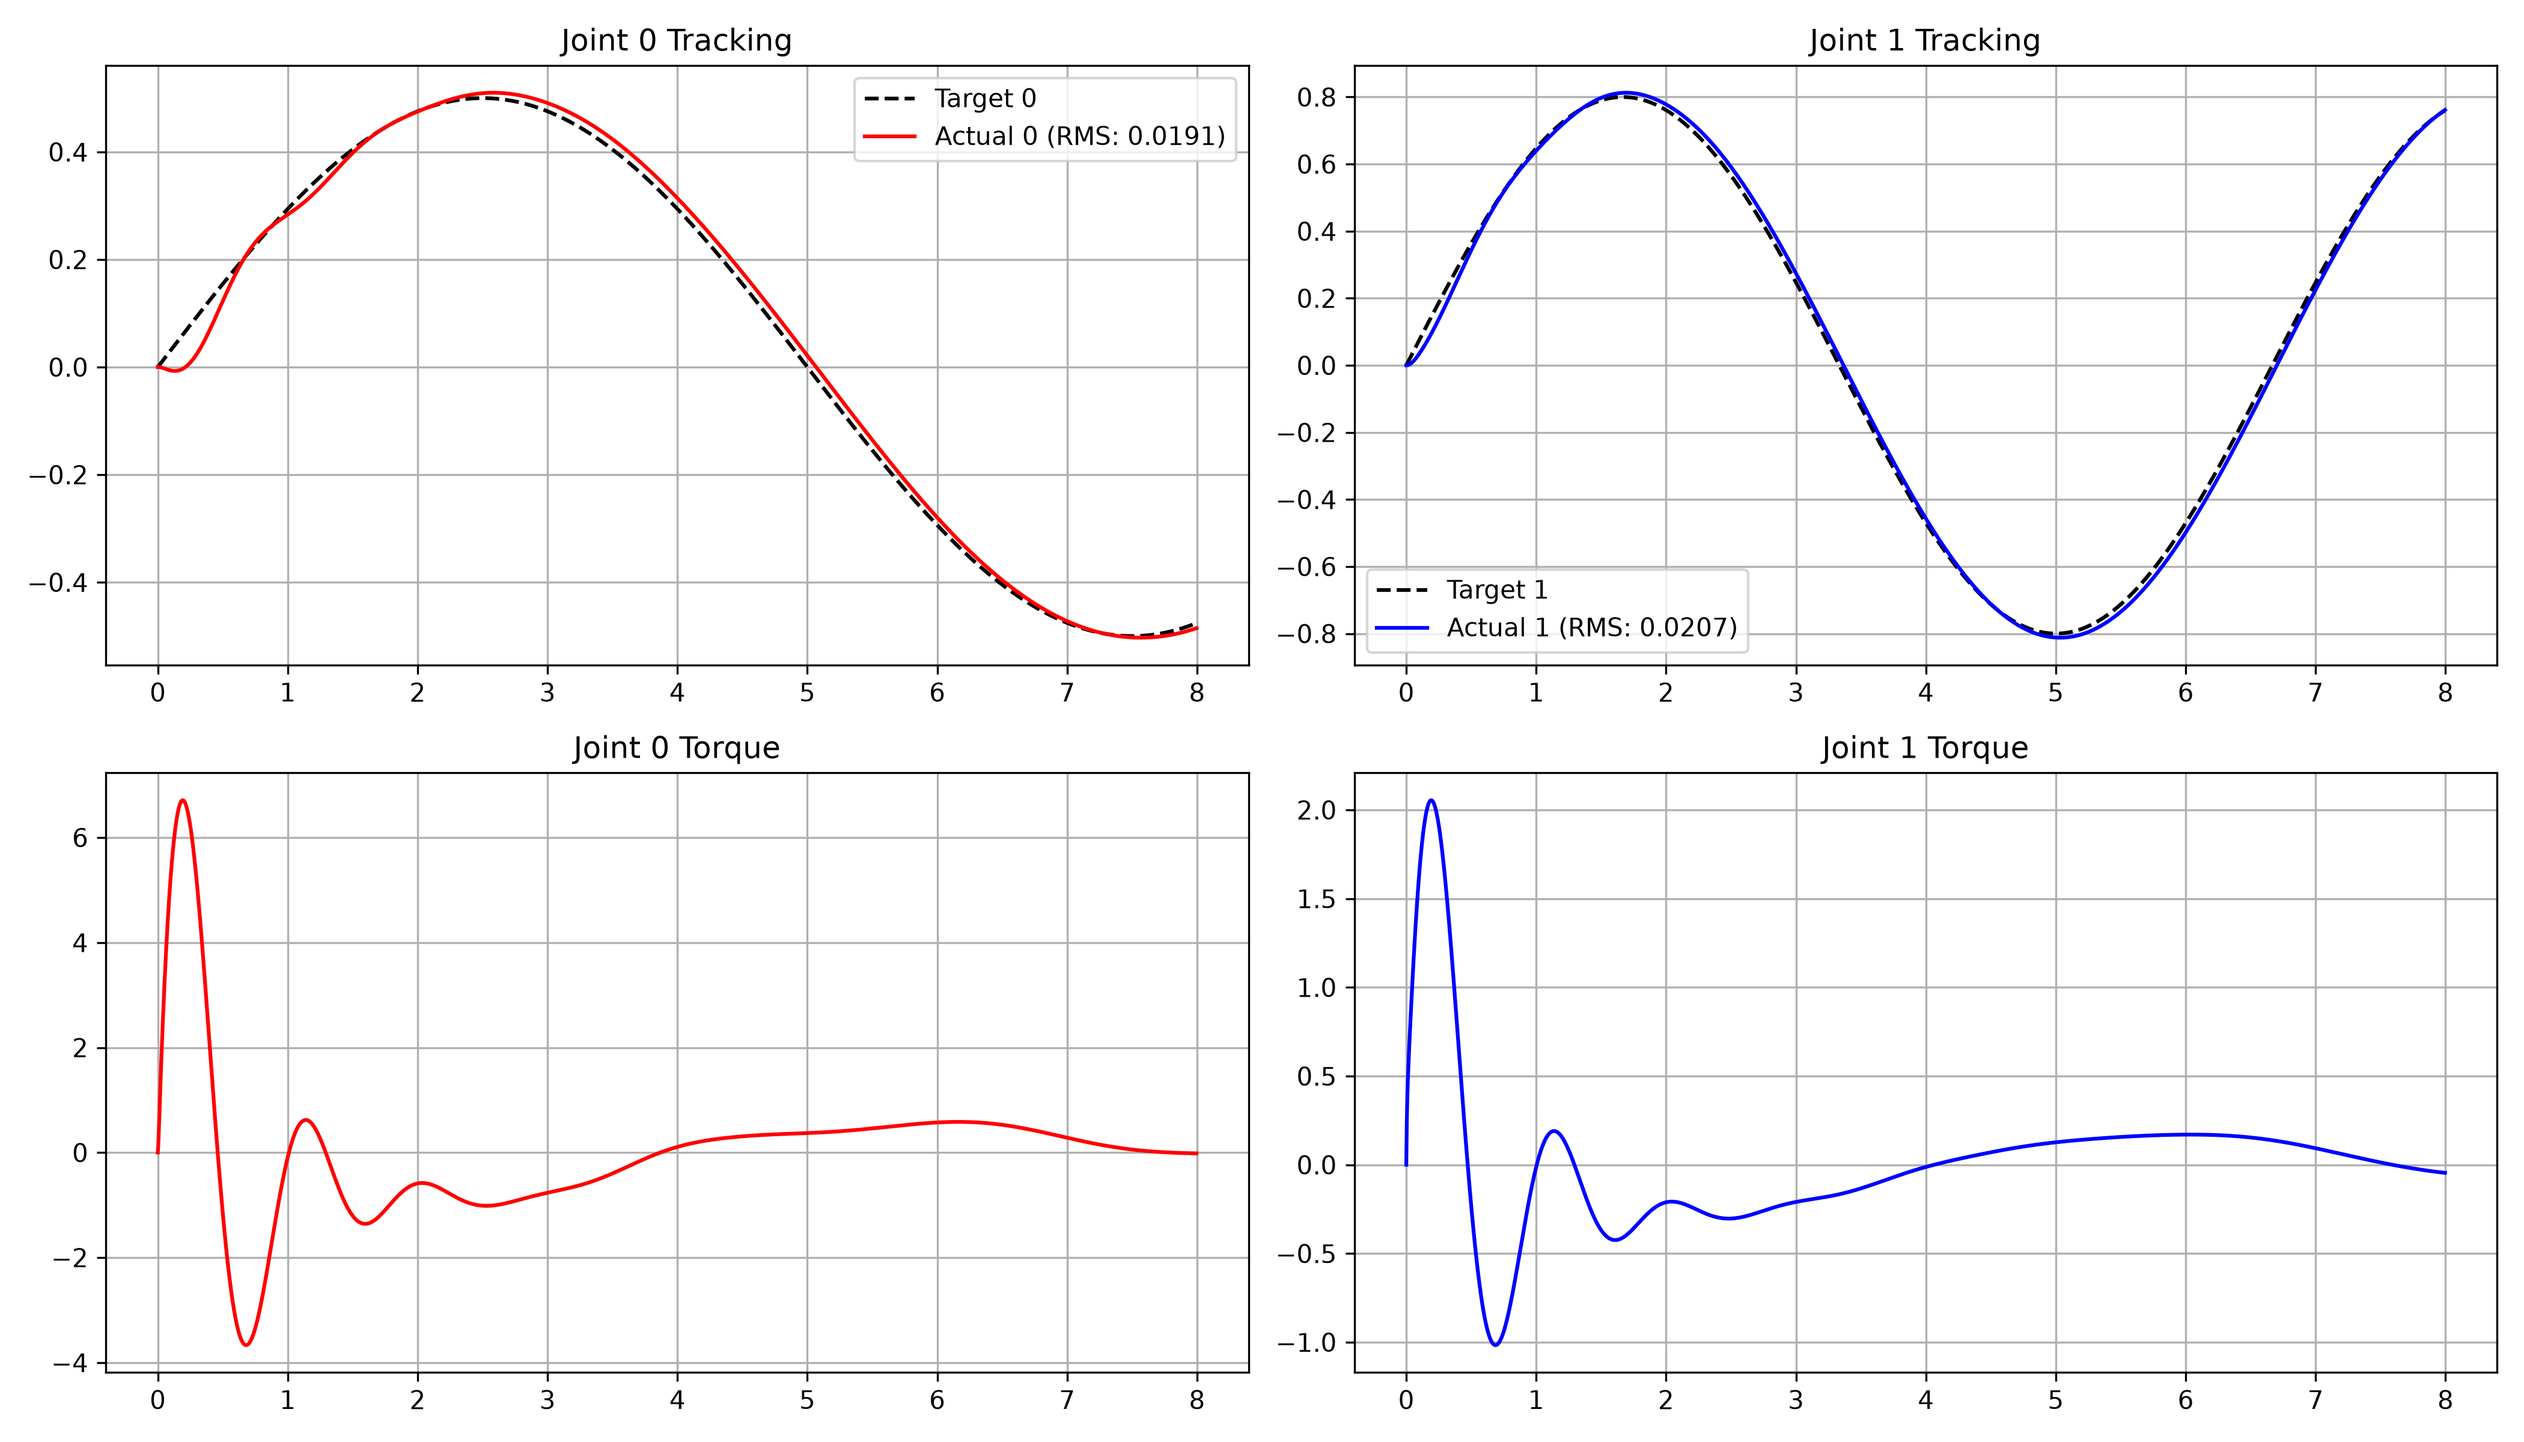
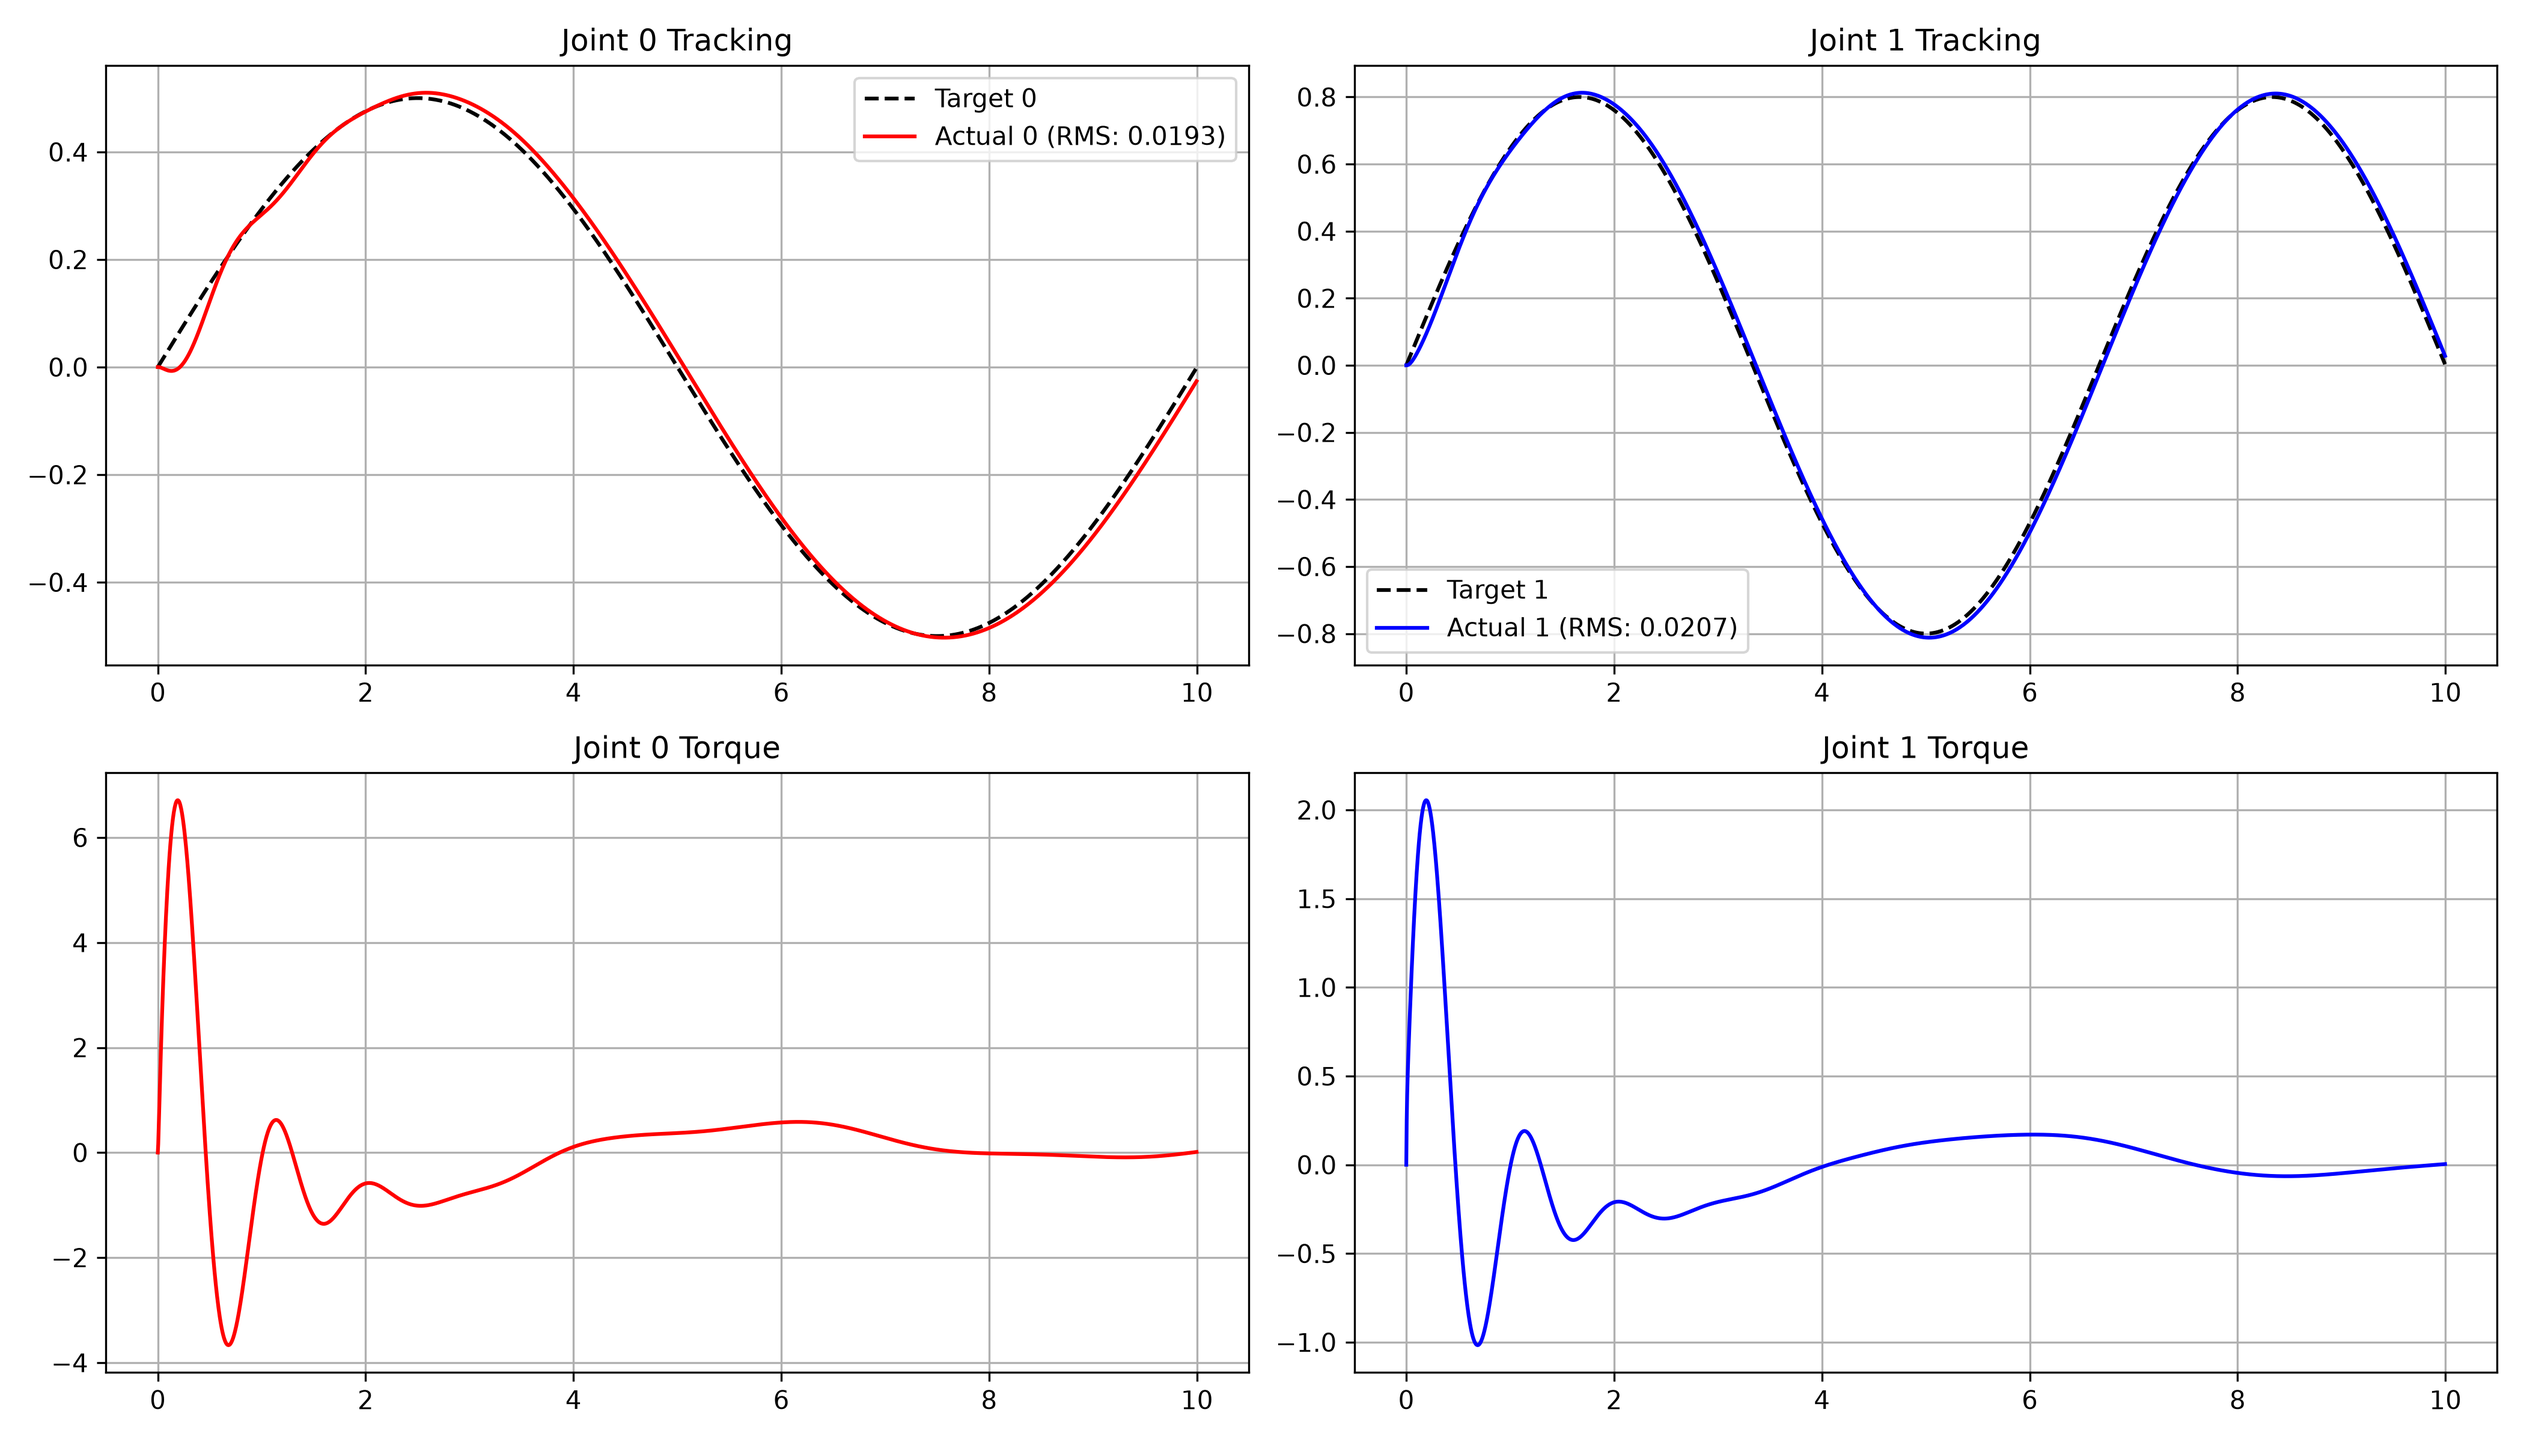
W5D7 里程碑①: 演示加长到10秒(240帧/9.8s) + 同步更新曲线图

diff --git a/week05_pid/day5_pybullet_2joint.py b/week05_pid/day5_pybullet_2joint.py
@@ -112,7 +112,7 @@ class PID:
 # ==========================================
 # 2. 两关节仿真与录制引擎
 # ==========================================
-def run_simulation(arm, T=8.0, dt=1/240, record_gif=False):
+def run_simulation(arm, T=10.0, dt=1/240, record_gif=False):   # T=10 → 里程碑① 要的 10 秒演示
     # 实例化两个大脑
     # joint0 扛着整条手臂（惯量大），Ki 太大会让它起步慢振荡 —— 实测降到 Ki=10 更干净
     pid0 = PID(kp=125, ki=10, kd=10)   # 调参就是这里
